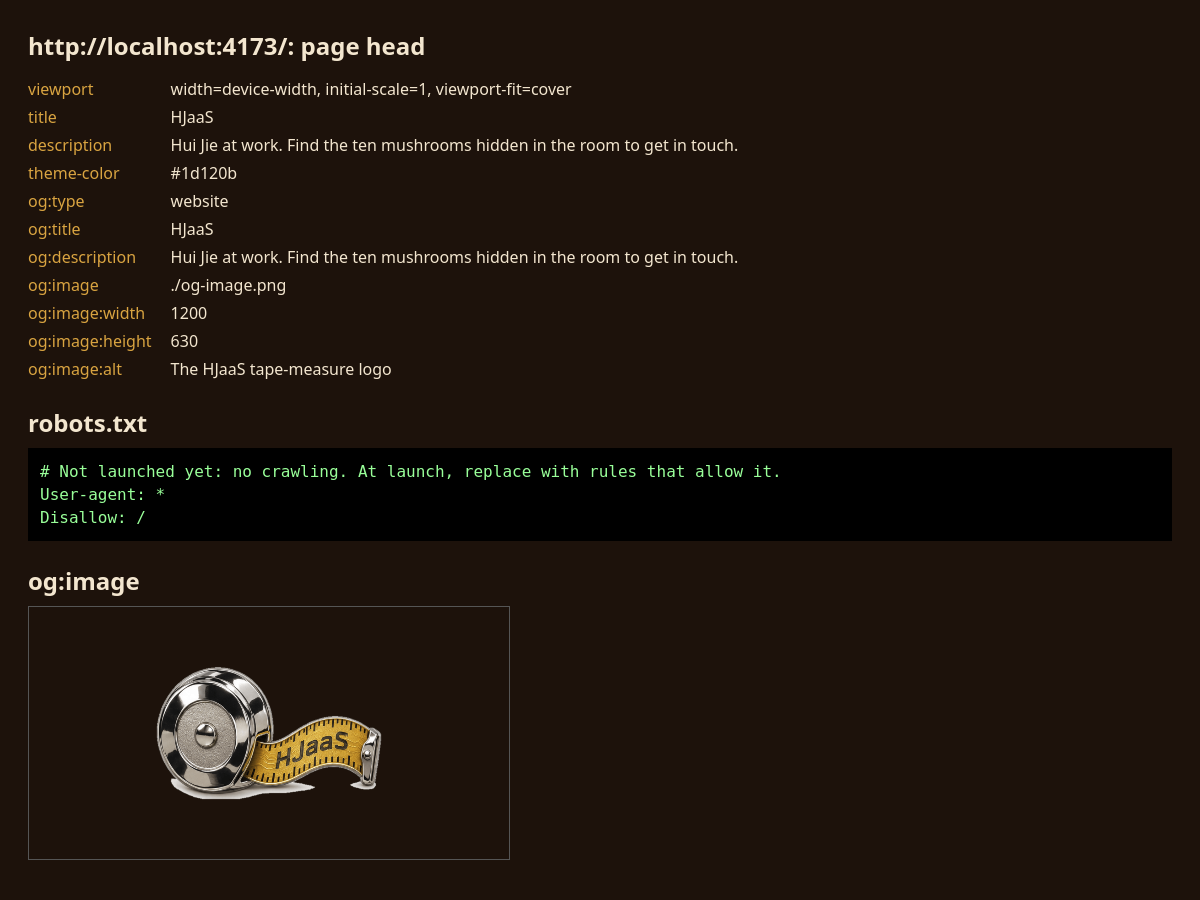
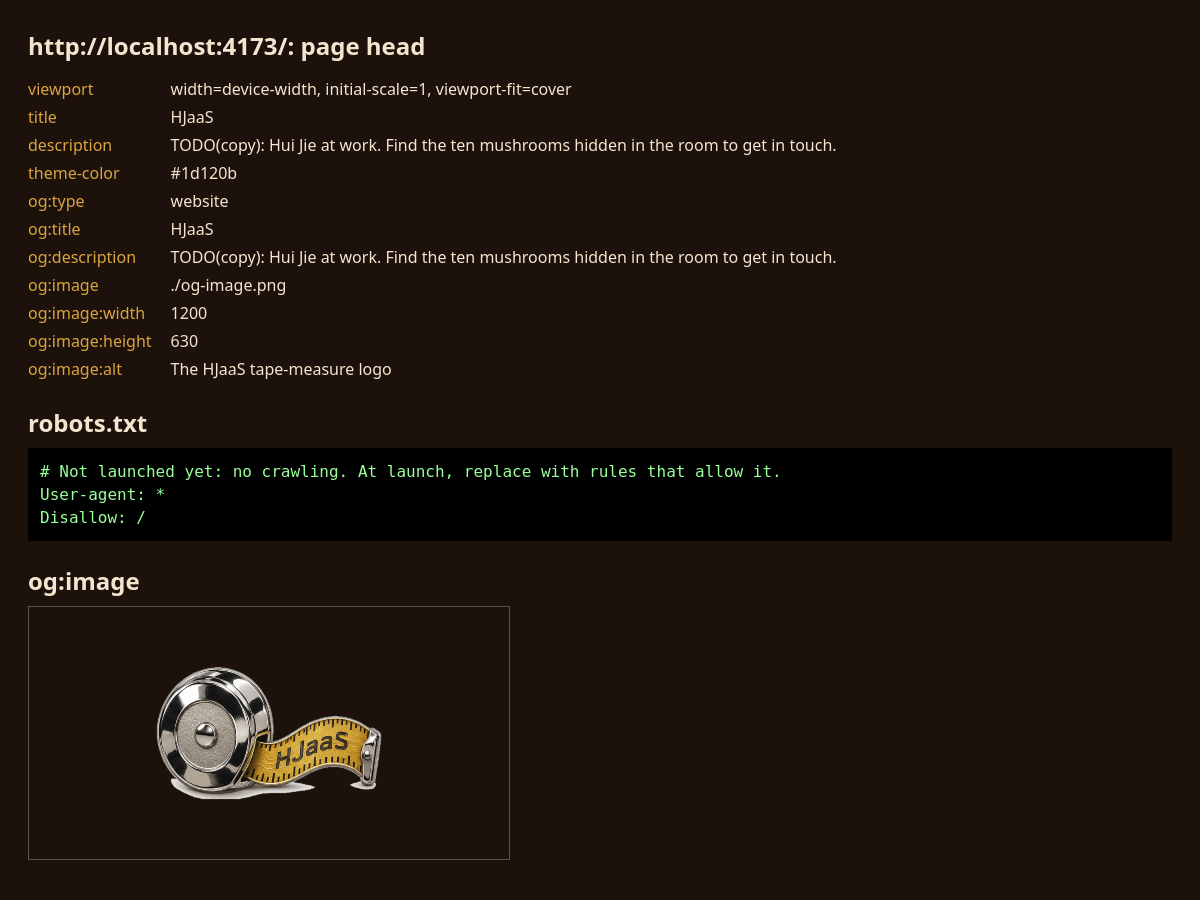
Scene 1: mark the placeholder description in its content (review 02 fix round 1, item 4)
The meta description and og:description now start with 'TODO(copy): '.

Changed region(s): [[0.1233, 0.28, 0.6783, 0.3111], [0.1233, 0.1556, 0.6783, 0.1867]]

diff --git a/site/index.html b/site/index.html
@@ -5,12 +5,12 @@
     <meta name="viewport" content="width=device-width, initial-scale=1, viewport-fit=cover" />
     <title>HJaaS</title>
     <!-- TODO(copy): the real description. Used by search results and link previews (og:description). -->
-    <meta name="description" content="Hui Jie at work. Find the ten mushrooms hidden in the room to get in touch." />
+    <meta name="description" content="TODO(copy): Hui Jie at work. Find the ten mushrooms hidden in the room to get in touch." />
     <meta name="theme-color" content="#1d120b" />
     <meta property="og:type" content="website" />
     <meta property="og:title" content="HJaaS" />
     <!-- TODO(copy): same text as the description above. -->
-    <meta property="og:description" content="Hui Jie at work. Find the ten mushrooms hidden in the room to get in touch." />
+    <meta property="og:description" content="TODO(copy): Hui Jie at work. Find the ten mushrooms hidden in the room to get in touch." />
     <!-- TODO(launch): link previews need an absolute URL; put the live domain in front of this path. -->
     <meta property="og:image" content="./og-image.png" />
     <meta property="og:image:width" content="1200" />

diff --git a/site/qa/REPORT.md b/site/qa/REPORT.md
@@ -257,7 +257,7 @@ intro plays). "Before" is `site/scene-1` with `main` merged; "after" is this bra
 | ✅ | **1. WebKit freeze at the end of the intro.** Cause: when the intro ended, the brush canvas was removed and GSAP cleared the inline styles on seven elements in the same frame, so WebKit repainted the whole plate at once. It was the one frame over 50 ms that kept coming back, always at 3.24 s. During the wash, the `<img>` fading in under the strokes also repainted the plate on every frame. Fix: the wash is drawn into the brush's own canvas. The paint is the room's own pixels, so this gives exactly the same image. The canvas then stays on as the room: nothing is swapped and nothing is cleared when the intro ends. The `<img>` takes over only if the plate is resized, when everything repaints anyway. | Longest frame from the wash to 1 s after the intro, iPhone 13 profile, 16 runs each: **before 39–62 ms**, a frame over 50 ms in 4 of 16 runs (60, 62, 51, 53 ms), always at the hand-over. **After 36–47 ms, 0 frames over 50 ms in all 16 runs.** The worst frame over the whole intro is the same frame in every run. The hammer loop afterwards: worst frame 22–31 ms before, 21–33 ms after. Desktop 1280 × 760: 27–40 ms before, 28–30 ms after. | `review-02/01-frames-raw.txt` (every run), `review-02/01-intro-before-after.jpg` |
 | ✅ | **2. Room image loads sooner.** A `<link rel="preload" as="image" fetchpriority="high">` in the page head starts the room download while the script is still loading. `loadRoom()` now requests it as an `<img>`, the only kind of request WebKit matches to that preload (a `fetch()` downloaded the 1.26 MB room twice), and makes the brush's ImageBitmap from it. It is still downloaded once, in WebKit and in Chromium. The reveal is the same code. | Room request starts (ms after navigation, 3 runs each): **45–51 → 4–5** on localhost, and **504–509 → 309–312** with 150 ms added to every request. Brush starts: **1070–1082 → 921–964 ms** with the added 150 ms. On localhost there is no change (612–621 before, 614–683 after; 597–630 → 614–666 over 6 more runs): there the brush waits for the counter's hidden unlock rehearsal (about 0.45 s), not for the room. | `review-02/02-room-load-timeline.png` (median runs), `review-02/02-room-load-raw.jsonl` |
 | ✅ | **3. Smaller mushrooms and logo.** `npm run assets` sizes every mushroom to 154 px tall: the tallest spot is 42 plate px, and at 2560 × 1440 the collect pop (1.2×) shows it at 77.1 CSS px at most, so 154 px is 2 × 77.1 rounded down (fix round 1: it was 160 px, 2.08×, over the 2× limit). The logo is capped at 614 px wide (2× its 307 CSS px at 2560 px) and never enlarged, so the 564 px temporary logo keeps its size. Both are now WebP q95 with exact alpha: at 3× zoom, on the floor and on the dark band, they show no edges or banding next to lossless. | Mushrooms 1–9: 94,974 / 60,358 / 117,028 / 77,608 / 27,048 / 116,000 / 85,738 / 87,176 / 110,286 B → 11,678 / 8,368 / 13,908 / 12,066 / 4,958 / 13,740 / 11,222 / 11,134 / 13,908 B (776,216 → 100,982 B). Logo 164,076 → 59,136 B. **Total 940,292 → 160,118 B (−780 KB, −83 %).** All scene images: 5.17 → 4.18 MB. The audit guessed 0.9–1.3 MB of savings; the real figure is lower because these files were 0.94 MB in total and the logo could not be resized. | `review-02/03-sprites-before-after.jpg`, `review-02/03-sizes-before.txt`, `review-02/03-sizes-after.txt` |
-| ✅ | **4. Page metadata.** Meta description (placeholder, marked `TODO(copy)`), theme colour (kept, `#1d120b`), Open Graph type, title, description and image. `robots.txt` is `User-agent: *` / `Disallow: /`. The image is a 1200 × 630 PNG of the logo on the page colour, made by `npm run assets`, because not every link-preview scraper reads WebP. | – | `review-02/04-metadata.png` (read back from the production build) |
+| ✅ | **4. Page metadata.** Meta description and `og:description` are placeholders whose text starts with `TODO(copy): `, so the marker shows wherever the text does (fix round 1: before, it was only in an HTML comment). Theme colour (kept, `#1d120b`), Open Graph type, title, description and image. `robots.txt` is `User-agent: *` / `Disallow: /`. The image is a 1200 × 630 PNG of the logo on the page colour, made by `npm run assets`, because not every link-preview scraper reads WebP. | – | `review-02/04-metadata.png` (read back from the production build) |
 
 Notes:
 
